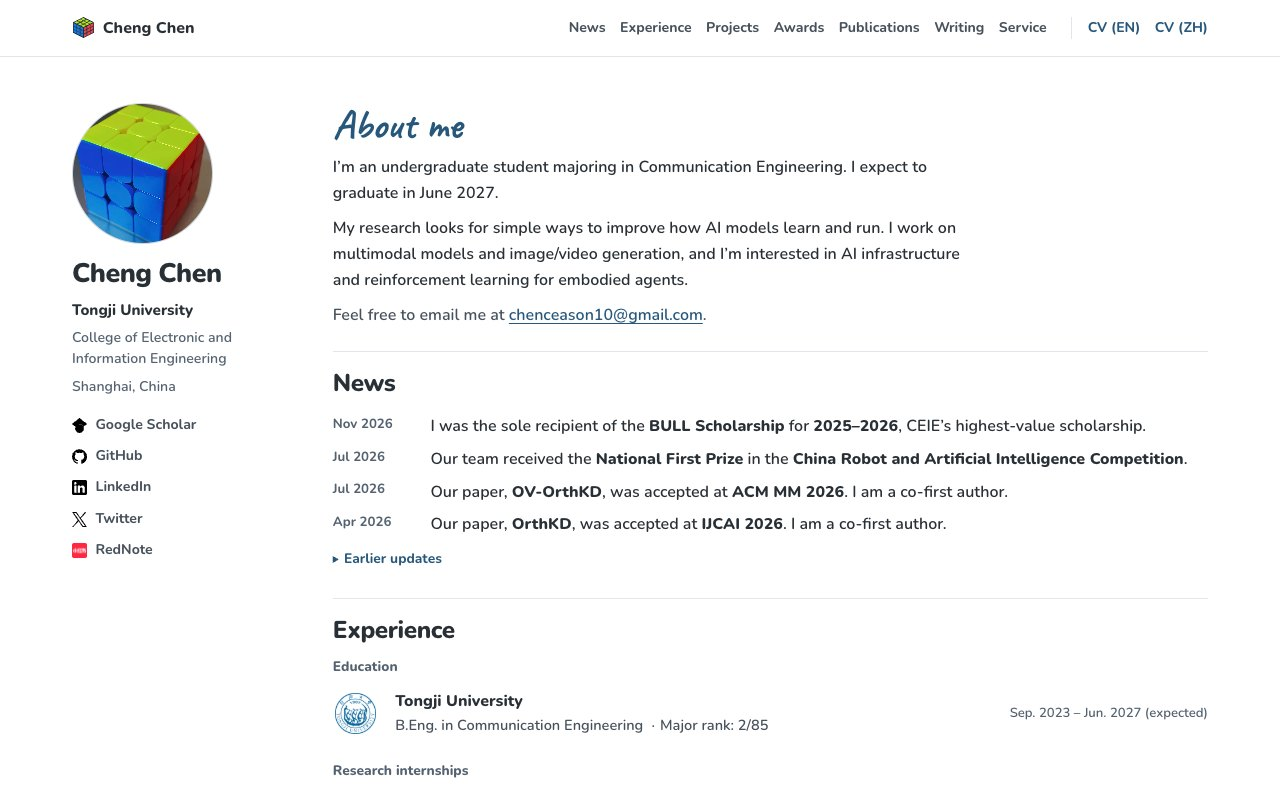
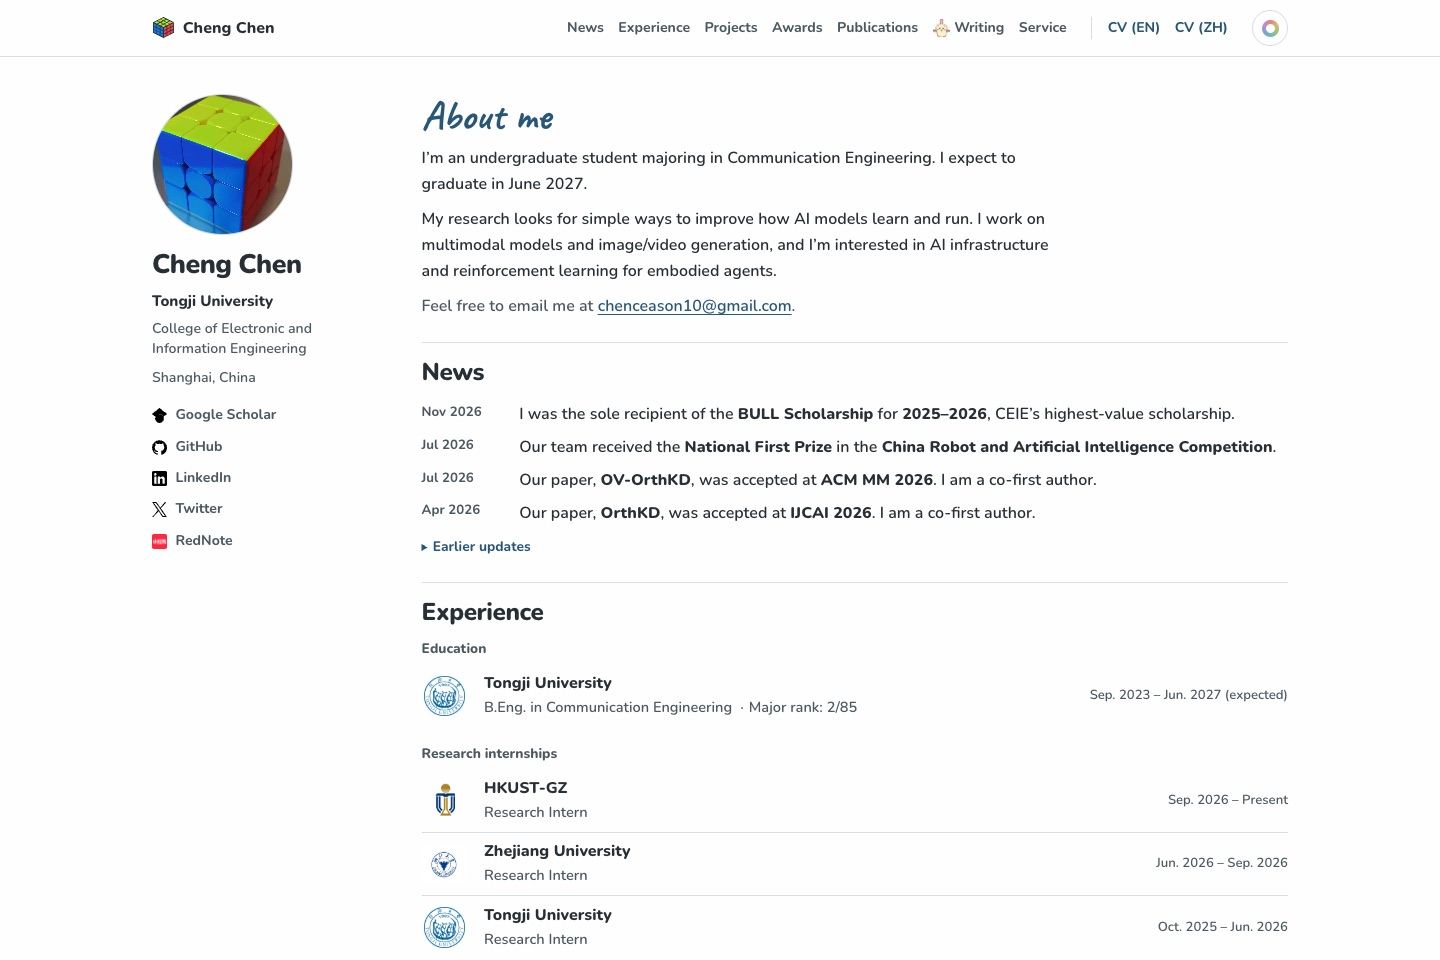
Add a shared tone dial and writing pages

diff --git a/public/style.css b/public/style.css
@@ -16,12 +16,12 @@
 
 :root {
   color-scheme: light;
-  --paper: #fff;
-  --ink: #282f35;
-  --secondary: #47515c;
-  --quiet: #536170;
-  --rule: #e0e6eb;
-  --accent: #27577b;
+  --paper: var(--tone-surface, #fff);
+  --ink: var(--tone-ink, #282f35);
+  --secondary: var(--tone-muted, #47515c);
+  --quiet: var(--tone-muted, #536170);
+  --rule: var(--tone-rule, #e0e6eb);
+  --accent: var(--tone-accent, #27577b);
   --width: 71rem;
   --gutter: clamp(1.2rem, 4vw, 3rem);
   --type: Nunito, "Arial Rounded MT Bold", "Comic Sans MS", sans-serif;
@@ -63,7 +63,7 @@ img { display: block; max-inline-size: 100%; }
   grid-template-columns: 11.5rem minmax(0, 1fr);
   column-gap: clamp(2rem, 6vw, 5.35rem);
   align-items: start;
-  padding-block: clamp(1.6rem, 3.6vw, 3rem) 1rem;
+  padding-block: clamp(1.28rem, 3vw, 2.3rem) 1rem;
 }
 .profile { position: sticky; top: 5rem; }
 .profile-art { inline-size: 8.8rem; }
@@ -88,7 +88,7 @@ img { display: block; max-inline-size: 100%; }
 .contact { margin-block-start: .56rem; color: var(--secondary); }
 .contact a { overflow-wrap: anywhere; }
 
-.chapter { padding-block: 1.05rem 1.48rem; border-top: 1px solid var(--rule); }
+.chapter { padding-block: .9rem 1.25rem; border-top: 1px solid var(--rule); }
 .chapter-title { font-size: 1.52rem; line-height: 1.2; letter-spacing: -.018em; font-weight: 830; margin-block-end: .7rem; }
 .subheading { margin-block-end: .27rem; color: var(--quiet); font-size: .86rem; font-weight: 800; }
 .ledger + .subheading { margin-block-start: .95rem; }
@@ -145,7 +145,8 @@ summary::marker { font-size: .77em; }
 @media (max-width: 760px) {
   html { scroll-padding-top: .75rem; }
   .masthead { position: static; }
-  .masthead-inner { flex-wrap: wrap; justify-content: space-between; padding-block: .6rem; }
+  .masthead-inner { flex-wrap: wrap; justify-content: space-between; padding-block: .5rem; gap: .28rem .5rem; }
+  .masthead-inner .brand { margin-inline-end: auto; }
   .site-nav { flex: 1 0 100%; order: 3; margin: 0; gap: .16rem .76rem; }
   .site-nav a { padding-block: .09rem; }
   .cv-nav { border: 0; padding: 0; }
@@ -168,4 +169,38 @@ summary::marker { font-size: .77em; }
   .paper.has-figure { grid-template-columns: minmax(0, 1fr); gap: .52rem; }
   .paper-figure { aspect-ratio: 2.7 / 1; }
   .paper-figure img { inline-size: 100%; block-size: 100%; max-block-size: 8.1rem; object-fit: contain; }
+}
+
+.site-nav a, .writing-back { display: inline-flex; align-items: center; gap: .25rem; }
+.writing-nav-avatar { width: 1.1rem; height: 1.1rem; object-fit: contain; }
+.writing-list { margin: 0; padding: 0; list-style: none; }
+.writing-entry {
+  display: grid;
+  grid-template-columns: minmax(0, 1fr) auto;
+  align-items: center;
+  gap: .55rem .75rem;
+  padding: .28rem 0;
+  color: var(--ink);
+  text-decoration: none;
+  font-weight: 820;
+}
+.writing-entry:hover { text-decoration: underline; }
+.writing-entry.has-avatar { grid-template-columns: auto minmax(0, 1fr) auto; }
+.writing-avatar { width: 45px; height: 45px; padding: 5px; border-radius: 50%; background: var(--tone-panel, #f3f6fa); object-fit: contain; }
+.writing-entry time { color: var(--quiet); font-size: .82rem; font-weight: 700; }
+.reading-page .masthead-inner, .reading-shell { width: min(calc(100% - 2 * var(--gutter)), 43.5rem); }
+.reading-page .writing-back { margin-inline-start: auto; font-size: .91rem; font-weight: 800; }
+.reading-shell { margin: 0 auto; padding: clamp(2.1rem, 7vw, 5.4rem) 0 5rem; }
+.reading-heading { padding-bottom: .95rem; border-bottom: 1px solid var(--rule); margin-bottom: 1.4rem; }
+.reading-heading h1 { margin: 0 0 .5rem; font-size: clamp(2.15rem, 5.2vw, 3.5rem); line-height: 1.1; letter-spacing: -.04em; }
+.reading-byline { display: flex; flex-wrap: wrap; align-items: center; gap: .32rem .9rem; color: var(--quiet); font-size: .88rem; }
+.reading-byline time { border-inline-start: 1px solid var(--rule); padding-inline-start: .85rem; }
+.reading-prose { font-size: clamp(1.03rem, 1.9vw, 1.12rem); line-height: 1.73; overflow-wrap: anywhere; }
+.reading-prose p + p { margin-top: .85em; }
+
+@media (max-width: 470px) {
+  .writing-entry { grid-template-columns: minmax(0, 1fr); gap: .06rem .6rem; }
+  .writing-entry.has-avatar { grid-template-columns: auto minmax(0, 1fr); }
+  .writing-avatar { grid-row: span 2; }
+  .writing-entry.has-avatar time { grid-column: 2; }
 }

diff --git a/public/tone.js b/public/tone.js
@@ -1,0 +1,88 @@
+(() => {
+    const storageKey = 'cube-page-tone';
+    const defaultHue = 205;
+    const root = document.documentElement;
+    const controls = [...document.querySelectorAll('[data-tone-control]')];
+
+    function normalize(value) {
+        return typeof value === 'string' && /^\d{1,3}$/.test(value) && Number(value) < 360
+            ? Number(value)
+            : defaultHue;
+    }
+
+    function display(value) {
+        const hue = normalize(String(value));
+        root.style.setProperty('--site-hue', hue);
+        for (const control of controls) {
+            control.querySelector('[data-tone-input]').value = hue;
+            control.querySelector('[data-tone-value]').textContent = hue + '°';
+        }
+    }
+
+    function remember(value) {
+        try {
+            if (value === null) localStorage.removeItem(storageKey);
+            else localStorage.setItem(storageKey, String(value));
+        } catch {
+            // The control also works when storage is disabled.
+        }
+    }
+
+    let savedHue = defaultHue;
+    try {
+        savedHue = normalize(localStorage.getItem(storageKey));
+    } catch {
+        // Use the default in browsers that restrict storage.
+    }
+    display(savedHue);
+
+    for (const control of controls) {
+        const dial = control.querySelector('[data-tone-dial]');
+        const range = control.querySelector('[data-tone-input]');
+        const summary = control.querySelector('summary');
+
+        function pointerHue(event) {
+            const bounds = dial.getBoundingClientRect();
+            const x = event.clientX - (bounds.left + bounds.width / 2);
+            const y = event.clientY - (bounds.top + bounds.height / 2);
+            if (Math.hypot(x, y) < 5) return;
+            const hue = (Math.round(Math.atan2(x, -y) * 180 / Math.PI) + 360) % 360;
+            display(hue);
+        }
+
+        dial.addEventListener('pointerdown', event => {
+            if (event.button !== 0 || !event.isPrimary) return;
+            event.preventDefault();
+            range.focus({ preventScroll: true });
+            dial.setPointerCapture(event.pointerId);
+            pointerHue(event);
+        });
+        dial.addEventListener('pointermove', event => {
+            if (dial.hasPointerCapture(event.pointerId)) pointerHue(event);
+        });
+        dial.addEventListener('lostpointercapture', () => remember(range.value));
+        range.addEventListener('input', () => {
+            display(range.value);
+            remember(range.value);
+        });
+        control.querySelector('[data-tone-reset]').addEventListener('click', () => {
+            display(defaultHue);
+            remember(null);
+        });
+        control.addEventListener('keydown', event => {
+            if (event.key === 'Escape' && control.open) {
+                event.preventDefault();
+                event.stopPropagation();
+                control.open = false;
+                summary.focus();
+            }
+        });
+        document.addEventListener('click', event => {
+            if (control.open && !control.contains(event.target)) control.open = false;
+        });
+        control.hidden = false;
+    }
+    window.addEventListener('storage', event => {
+        if (event.key === storageKey) display(normalize(event.newValue));
+    });
+})();

diff --git a/public/tone.css b/public/tone.css
@@ -1,0 +1,72 @@
+/* Palette shared by the academic homepage and article layout. */
+:root {
+    --site-hue: 205;
+    --tone-ink: hsl(var(--site-hue) 14% 18%);
+    --tone-heading: hsl(var(--site-hue) 25% 21%);
+    --tone-muted: hsl(var(--site-hue) 12% 34%);
+    --tone-accent: hsl(var(--site-hue) 51% 31%);
+    --tone-surface: hsl(var(--site-hue) 28% 99.4%);
+    --tone-panel: hsl(var(--site-hue) 37% 96.5%);
+    --tone-rule: hsl(var(--site-hue) 19% 87%);
+}
+
+.tone-control { position: relative; flex: none; }
+.tone-control[hidden] { display: none; }
+.tone-toggle {
+    display: grid;
+    place-items: center;
+    width: 36px;
+    height: 36px;
+    border: 1px solid var(--tone-rule);
+    border-radius: 50%;
+    cursor: pointer;
+    list-style: none;
+    background: var(--tone-surface);
+}
+.tone-toggle::-webkit-details-marker { display: none; }
+.tone-toggle:hover, .tone-control[open] .tone-toggle { border-color: var(--tone-accent); }
+.tone-swatch, .tone-dial {
+    --spectrum: conic-gradient(#e7837a, #dcb66a, #99c27e, #6cbeb1, #829fdb, #c08fca, #e7837a);
+    background: var(--spectrum);
+}
+.tone-swatch { width: 17px; height: 17px; border-radius: 50%; display: grid; place-items: center; }
+.tone-swatch::after { content: ""; width: 9px; height: 9px; border-radius: 50%; background: var(--tone-surface); }
+.tone-panel {
+    position: absolute;
+    inset-block-start: calc(100% + .58rem);
+    inset-inline-end: 0;
+    z-index: 35;
+    inline-size: 10.75rem;
+    display: grid;
+    justify-items: center;
+    gap: .62rem;
+    padding: .8rem .8rem .68rem;
+    border: 1px solid var(--tone-rule);
+    border-radius: .76rem;
+    background: var(--tone-surface);
+    box-shadow: 0 7px 24px #12182014;
+    color: var(--tone-ink);
+    line-height: 1.35;
+}
+.tone-heading { margin: 0; font-size: .83rem; font-weight: 800; }
+.tone-dial { position: relative; width: 112px; height: 112px; display: grid; place-items: center; border-radius: 50%; touch-action: none; cursor: grab; }
+.tone-dial:active { cursor: grabbing; }
+.tone-dial:focus-within { outline: 2px solid var(--tone-accent); outline-offset: 4px; }
+.tone-dial::before { position: absolute; inset: 11px; border-radius: 50%; background: var(--tone-surface); content: ""; pointer-events: none; }
+.tone-marker {
+    position: absolute;
+    z-index: 1;
+    width: 13px;
+    height: 13px;
+    border-radius: 50%;
+    border: 2px solid #fff;
+    box-shadow: 0 0 0 1px #2035456b;
+    background: var(--tone-accent);
+    transform: rotate(calc(var(--site-hue) * 1deg)) translateY(-50px);
+    pointer-events: none;
+}
+.tone-label { position: absolute; inset: 0; pointer-events: none; }
+.tone-label input, .tone-visually-hidden { position: absolute; width: 1px; height: 1px; padding: 0; overflow: hidden; clip-path: inset(50%); white-space: nowrap; }
+.tone-value { z-index: 1; font-size: .86rem; font-weight: 750; font-variant-numeric: tabular-nums; pointer-events: none; }
+.tone-reset { border: 0; padding: .25rem .5rem; background: transparent; color: var(--tone-accent); cursor: pointer; font: inherit; font-size: .8rem; }
+.tone-reset:hover { text-decoration: underline; }

diff --git a/src/tone-control.html b/src/tone-control.html
@@ -1,0 +1,15 @@
+<details class="tone-control" data-tone-control hidden>
+<summary class="tone-toggle" aria-label="Adjust page tone"><span class="tone-swatch" aria-hidden="true"></span></summary>
+<div class="tone-panel">
+    <p class="tone-heading">Page tone</p>
+    <div class="tone-dial" data-tone-dial>
+        <label class="tone-label">
+            <span class="tone-visually-hidden">Hue</span>
+            <input type="range" min="0" max="359" step="1" value="205" data-tone-input>
+        </label>
+        <span class="tone-marker" aria-hidden="true"></span>
+        <output class="tone-value" data-tone-value aria-hidden="true">205°</output>
+    </div>
+    <button class="tone-reset" type="button" data-tone-reset>Reset</button>
+</div>
+</details>

diff --git a/README.md b/README.md
@@ -22,7 +22,7 @@ Open `http://localhost:8000/`. Open `dist/index.html` directly if you only want 
 | --- | --- |
 | Profile, email, social links and CV URLs | `content/site.json` |
 | News, experience, publication credits, projects and awards | `content/site.json` |
-| Writing, talks and reports | Fill the matching arrays in `content/site.json` |
+| Writing, talks and reports | Use the matching arrays in `content/site.json`. For a writing entry, give a `slug` and `paragraphs` to generate an article, or a `url` to link elsewhere. |
 | Portrait, logos, browser icon and paper figures | `public/images/` |
 | Type, spacing and visual styles | `public/style.css` |
 | HTML structure | `src/render.mjs` |
@@ -30,6 +30,10 @@ Open `http://localhost:8000/`. Open `dist/index.html` directly if you only want 
 Dates in the news and writing arrays use `YYYY-MM-DD`. News is displayed in the order given, with the first four entries visible. Empty sections are omitted from the page and navigation. Set the site URL in the content file to the address where your copy is hosted.
 
 The included workflow builds and tests the site before publishing. In a new repository, select **Settings → Pages → GitHub Actions** as the publishing source. The workflow publishes the `dist/` directory and supports a repository subpath.
+
+The hue dial adjusts the accent, rules and page background. Visitors can drag it or use the arrow keys on the Hue control. The setting stays in their browser, with a reset button in the panel.
+
+The example’s Writing avatar is [Usagi from the official Chiikawa anime site](https://www.anime-chiikawa.jp/). Replace `writingAvatar` in `content/site.json` with your own image for a different site. Character artwork belongs to its respective rights holders.
 
 ## Design references
 
